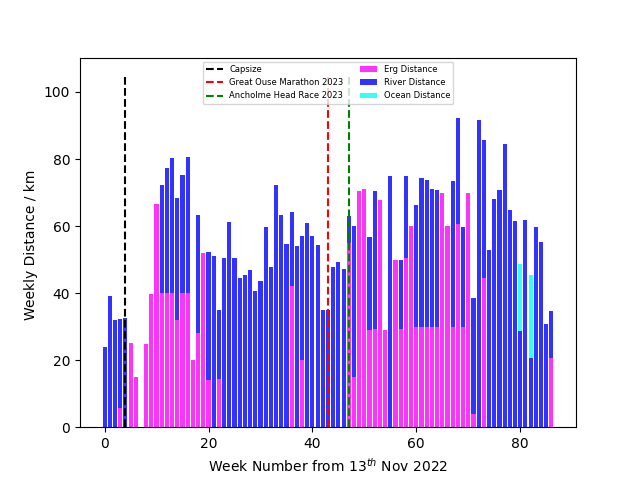
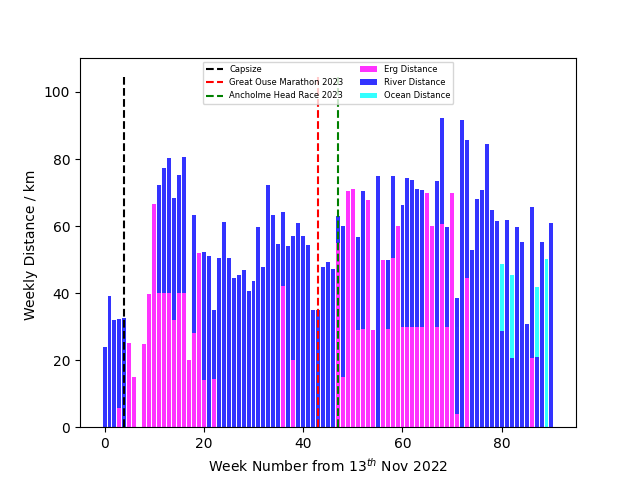
20240806_update

Changed region(s): [[0.1562, 0.1562, 0.875, 0.9375]]

diff --git a/dashboard.html b/dashboard.html
@@ -136,11 +136,12 @@
 										<div class="inner">
                                 <header class="totals">
                                     <h1><u>Overall Totals</u></h1>
-                                    <p>Distance Rowed on River:      2853.29 km </p>
-                                    <p>Distance Rowed on Erg:      1675.08 km </p>
-									<p>Distance Rowed on Ocean:      19.92 km </p>
-                                    <p>Number of Turns Completed:     4152</p>
-                                    <p>Calories Burned:     330,410 kcal</p>
+                                    <p>Distance Rowed on River:      3263.93 km </p>
+                                    <p>Distance Rowed on Erg:      1695.68 km </p>
+									<p>Distance Rowed on Ocean:      115.8 km </p>
+									<p>Ocean Rowing Training Hours:     38.98  </p>
+                                    <p>Number of Turns Completed:     4756</p>
+                                    <p>Calories Burned:     373,262 kcal</p>
                                   </header>
                                 </div>
                             </div>

diff --git a/index.html b/index.html
@@ -279,7 +279,7 @@
 										<li><input type="reset" value="Clear" /></li>
 									</ul>
 								</form>
-							</section>
+							</section-->
 							<section class="test">
 								
 								<section>
@@ -289,7 +289,7 @@
 										<a href="#">jake.still@live.co.uk</a>
 									</div>
 								</section>
-								<section>
+								<!--section>
 									<div class="tesbox2">
 										<span class="icon solid alt fa-phone"></span>
 										<h3>Mobile</h3>
